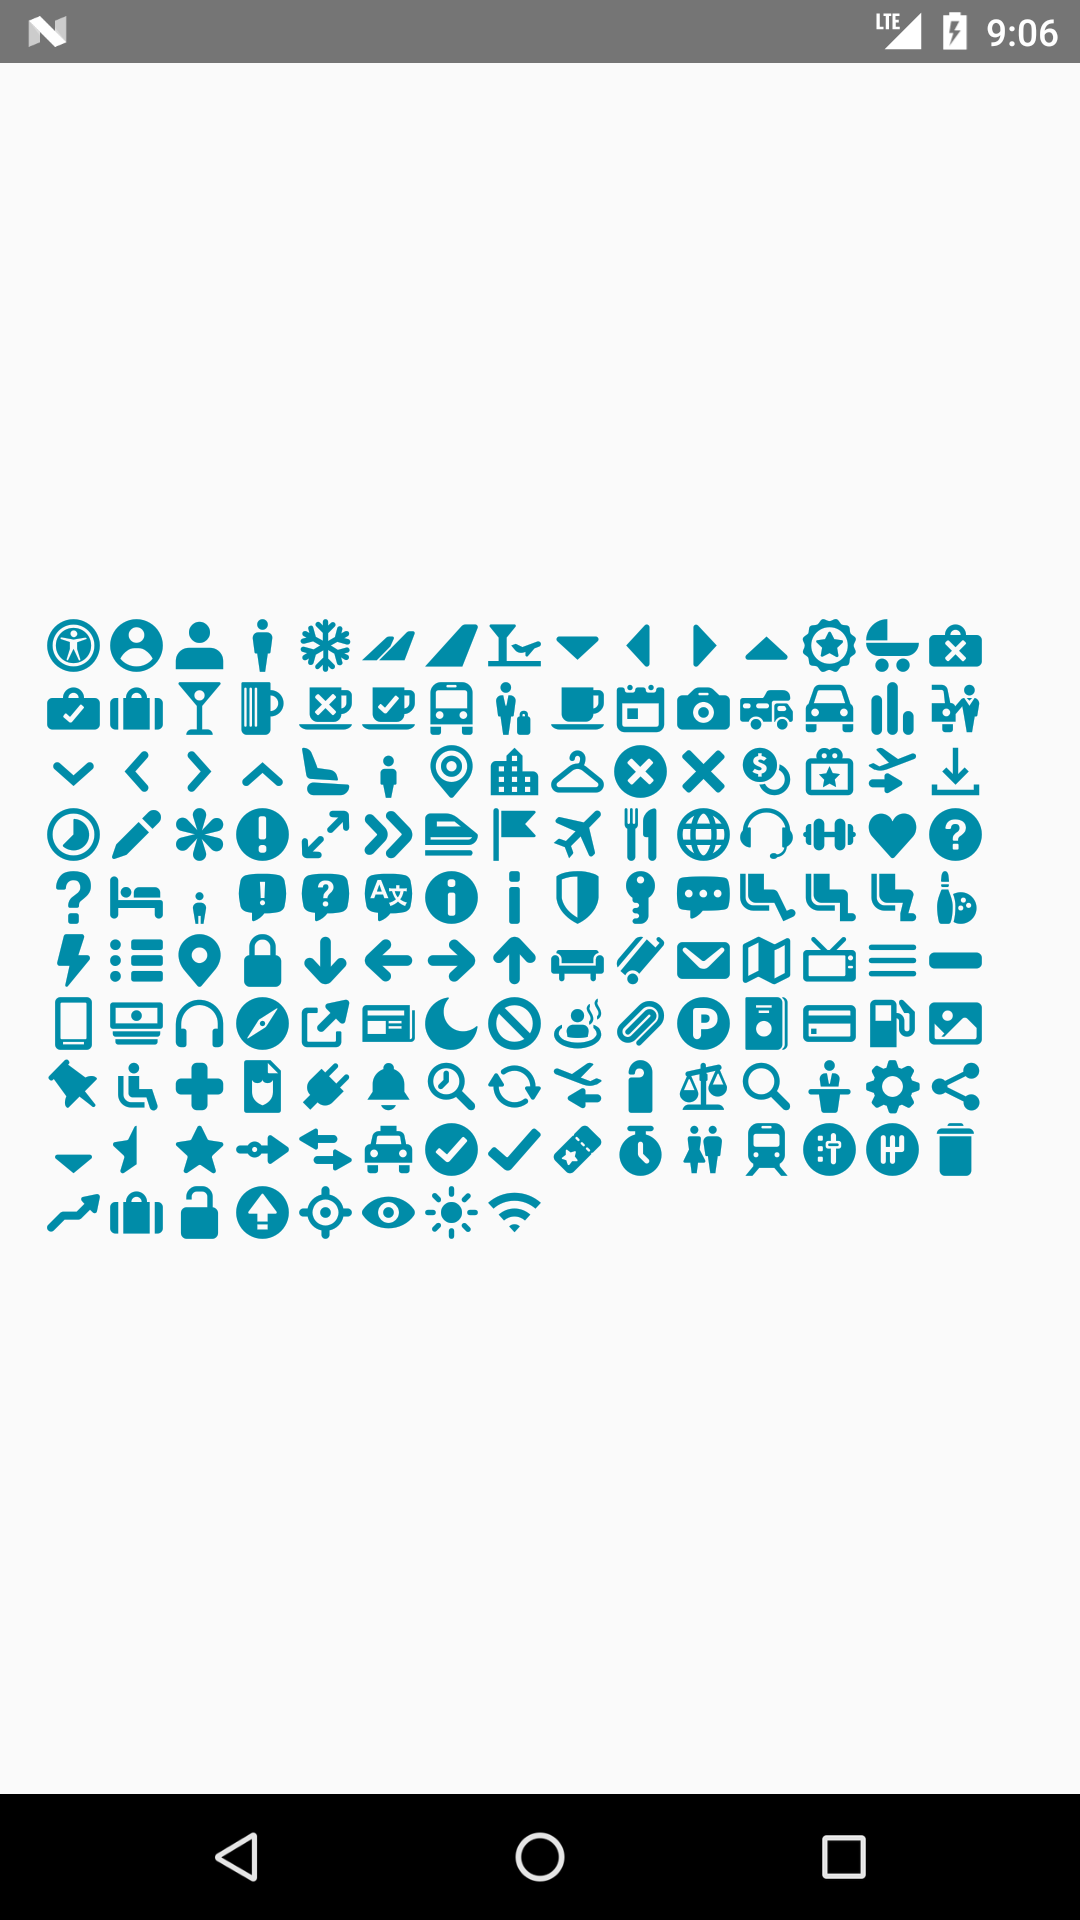
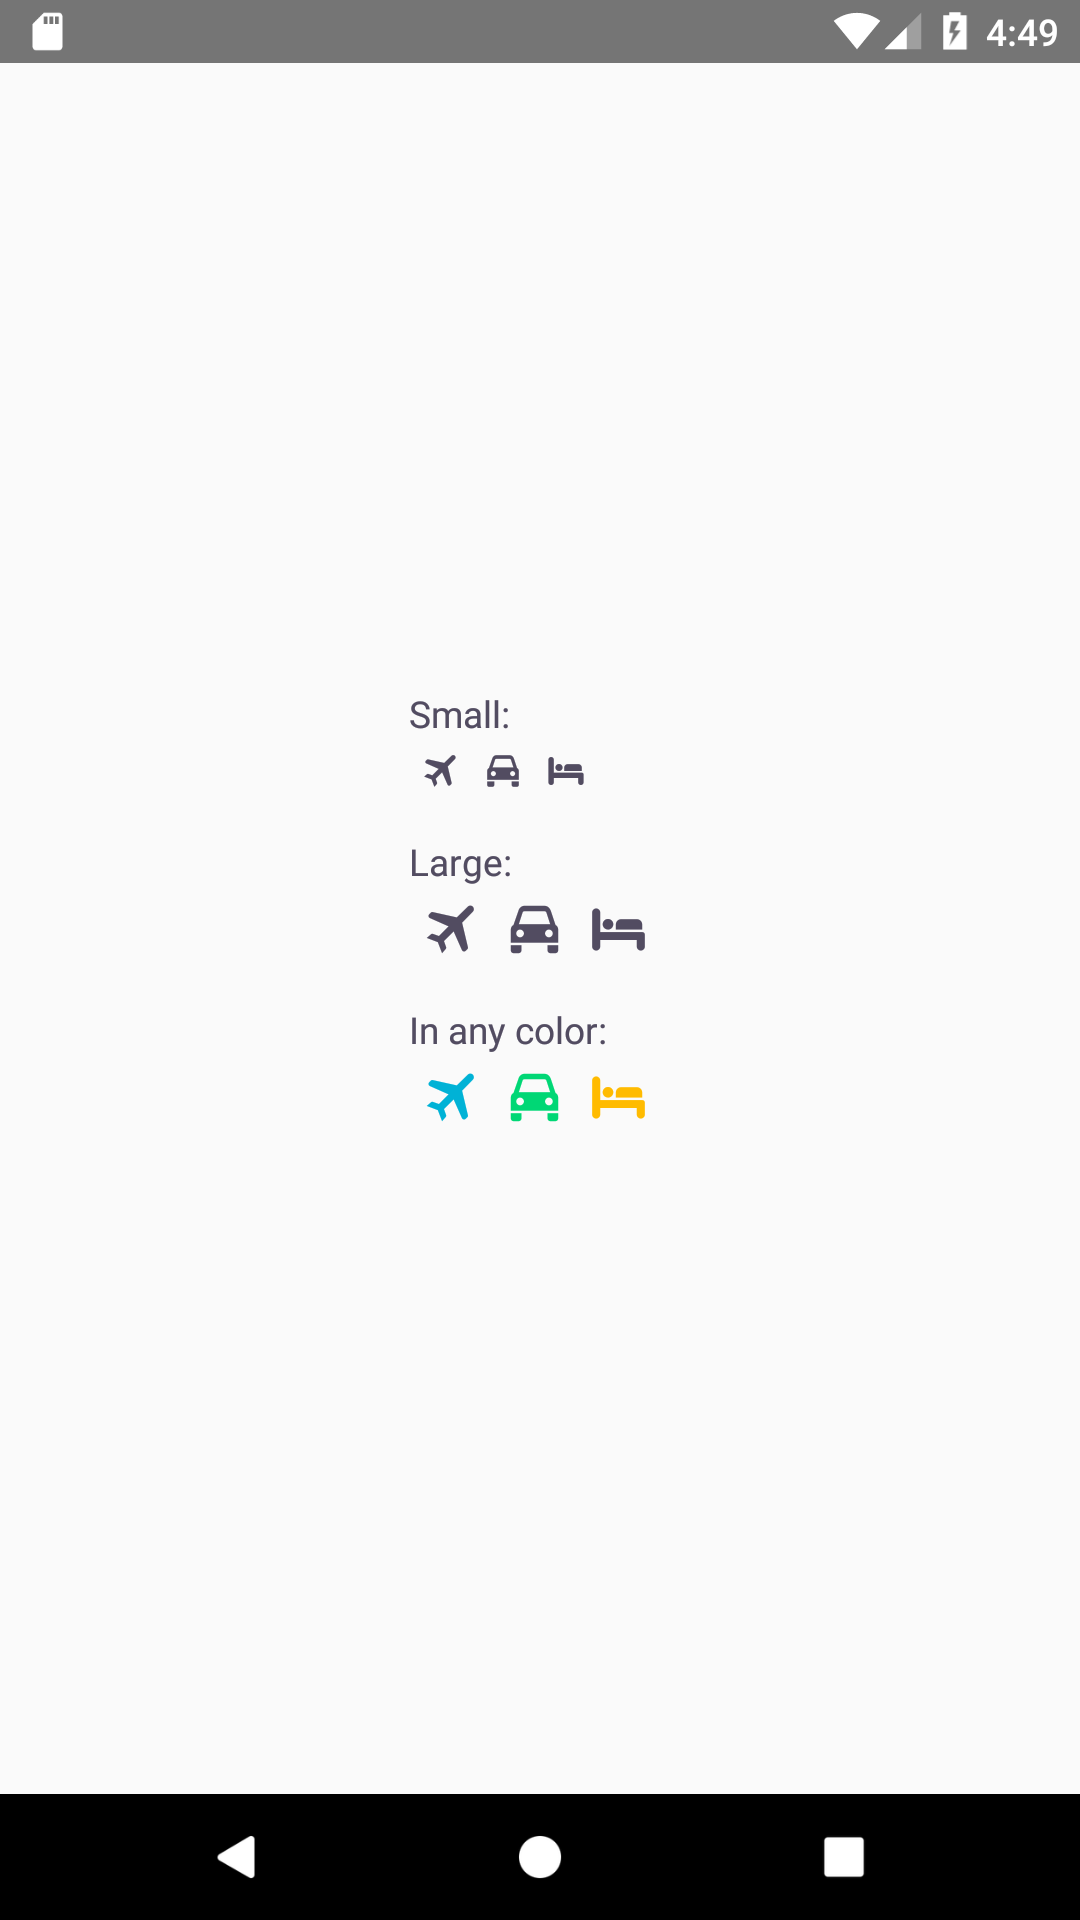
[No_Jira] update story and doc based on feedback

diff --git a/native/packages/react-native-bpk-component-icon/stories.js b/native/packages/react-native-bpk-component-icon/stories.js
@@ -20,6 +20,7 @@ import React from 'react';
 import { storiesOf } from '@storybook/react-native';
 import { Platform, View, StyleSheet } from 'react-native';
 import iconMappings from 'bpk-svgs/dist/font/iconMapping.json';
+import BpkText from 'react-native-bpk-component-text';
 import BpkIcon from './index';
 
 const tokens = Platform.select({
@@ -28,12 +29,17 @@ const tokens = Platform.select({
 })();
 
 const {
-  colorBlue700,
+  colorBlue500,
+  colorGreen500,
+  colorYellow500,
   spacingBase,
+  spacingSm,
 } = tokens;
 
 const styles = StyleSheet.create({
   container: {
+    alignItems: 'center',
+    alignSelf: 'center',
     flex: 1,
     justifyContent: 'center',
     padding: spacingBase,
@@ -42,13 +48,91 @@ const styles = StyleSheet.create({
     flexDirection: 'row',
     flexWrap: 'wrap',
   },
+  column: {
+    flexDirection: 'column',
+    marginBottom: spacingBase,
+  },
+  singleRow: {
+    minWidth: 100,
+  },
+  singleIcon: {
+    paddingLeft: spacingSm,
+    paddingRight: spacingSm,
+  },
   icon: {
-    color: colorBlue700,
+    color: colorBlue500,
+  },
+  bottomMargin: {
+    marginBottom: spacingSm,
   },
 });
 
+const getSmallIcons = () => (<View style={styles.column}>
+  <BpkText textStyle="sm" style={styles.bottomMargin}>Small:</BpkText>
+  <View style={[styles.singleRow, styles.group]}>
+    <BpkIcon
+      style={styles.singleIcon}
+      icon="flight"
+      small
+    />
+    <BpkIcon
+      style={styles.singleIcon}
+      icon="cars"
+      small
+    />
+    <BpkIcon
+      style={styles.singleIcon}
+      icon="hotels"
+      small
+    />
+  </View>
+</View>);
+
+const getLargeIcons = () => (<View style={styles.column} >
+  <BpkText textStyle="sm" style={styles.bottomMargin}>Large:</BpkText>
+  <View style={[styles.singleRow, styles.group]}>
+    <BpkIcon
+      style={styles.singleIcon}
+      icon="flight"
+    />
+    <BpkIcon
+      style={styles.singleIcon}
+      icon="cars"
+    />
+    <BpkIcon
+      style={styles.singleIcon}
+      icon="hotels"
+    />
+  </View>
+</View>);
+
+const getColouredIcons = () => (<View style={styles.column} >
+  <BpkText textStyle="sm" style={styles.bottomMargin}>In any color:</BpkText>
+  <View style={[styles.singleRow, styles.group]}>
+    <BpkIcon
+      style={[styles.singleIcon, { color: colorBlue500 }]}
+      icon="flight"
+    />
+    <BpkIcon
+      style={[styles.singleIcon, { color: colorGreen500 }]}
+      icon="cars"
+    />
+    <BpkIcon
+      style={[styles.singleIcon, { color: colorYellow500 }]}
+      icon="hotels"
+    />
+  </View>
+</View>);
+
 storiesOf('BpkIcon', module)
   .add('docs:icons', () => (
+    <View style={styles.container}>
+      {getSmallIcons()}
+      {getLargeIcons()}
+      {getColouredIcons()}
+    </View >
+  ))
+  .add('docs:all-icons', () => (
     <View style={styles.container} >
       <View style={styles.group} >
         {Object.keys(iconMappings).map(name => (
@@ -61,4 +145,3 @@ storiesOf('BpkIcon', module)
       </View>
     </View>
   ));
-

diff --git a/packages/bpk-docs/src/pages/NativeIconsPage/NativeIconsPage.js b/packages/bpk-docs/src/pages/NativeIconsPage/NativeIconsPage.js
@@ -21,7 +21,7 @@ import readme from 'react-native-bpk-component-icon/readme.md';
 
 import BpkLink from 'bpk-component-link';
 import iosScreenshotDefault from 'react-native-bpk-component-icon/screenshots/ios/icons.png';
-import androidEmpty from './../../static/android_empty.svg';
+import androidScreenshotDefault from 'react-native-bpk-component-icon/screenshots/android/icons.png';
 
 
 import Paragraph from './../../components/Paragraph';
@@ -45,7 +45,7 @@ const components = [
         title: 'Android',
         width: 1080,
         height: 1920,
-        src: `/${androidEmpty}`,
+        src: `/${androidScreenshotDefault}`,
         altText: 'Android Default icon Component',
         subText: '(Google Pixel Emulator)',
       },
@@ -66,7 +66,7 @@ const NativeIconsPage = () => <DocsPageBuilder
   ]}
   components={components}
   readme={readme}
-  showMenu
+  showMenu={false}
 />;
 
 export default NativeIconsPage;

diff --git a/native/packages/react-native-bpk-component-icon/readme.md b/native/packages/react-native-bpk-component-icon/readme.md
@@ -10,7 +10,7 @@ npm install react-native-bpk-component-icon --save-dev
 
 ## Native usage
 
-### IOS
+### iOS
 
 Add the following to your `Podfile` and run `pod update`:
 
